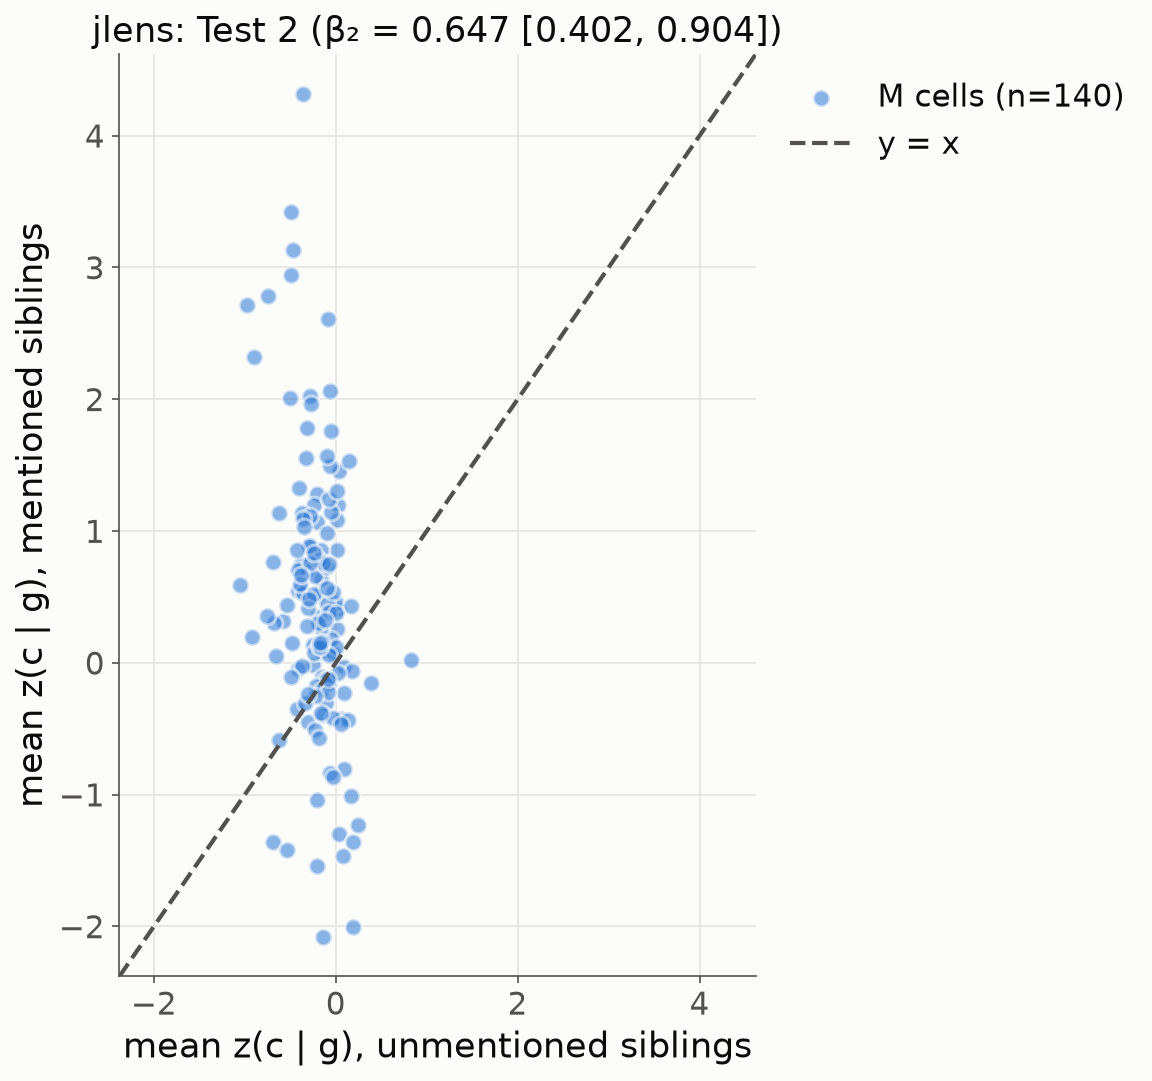
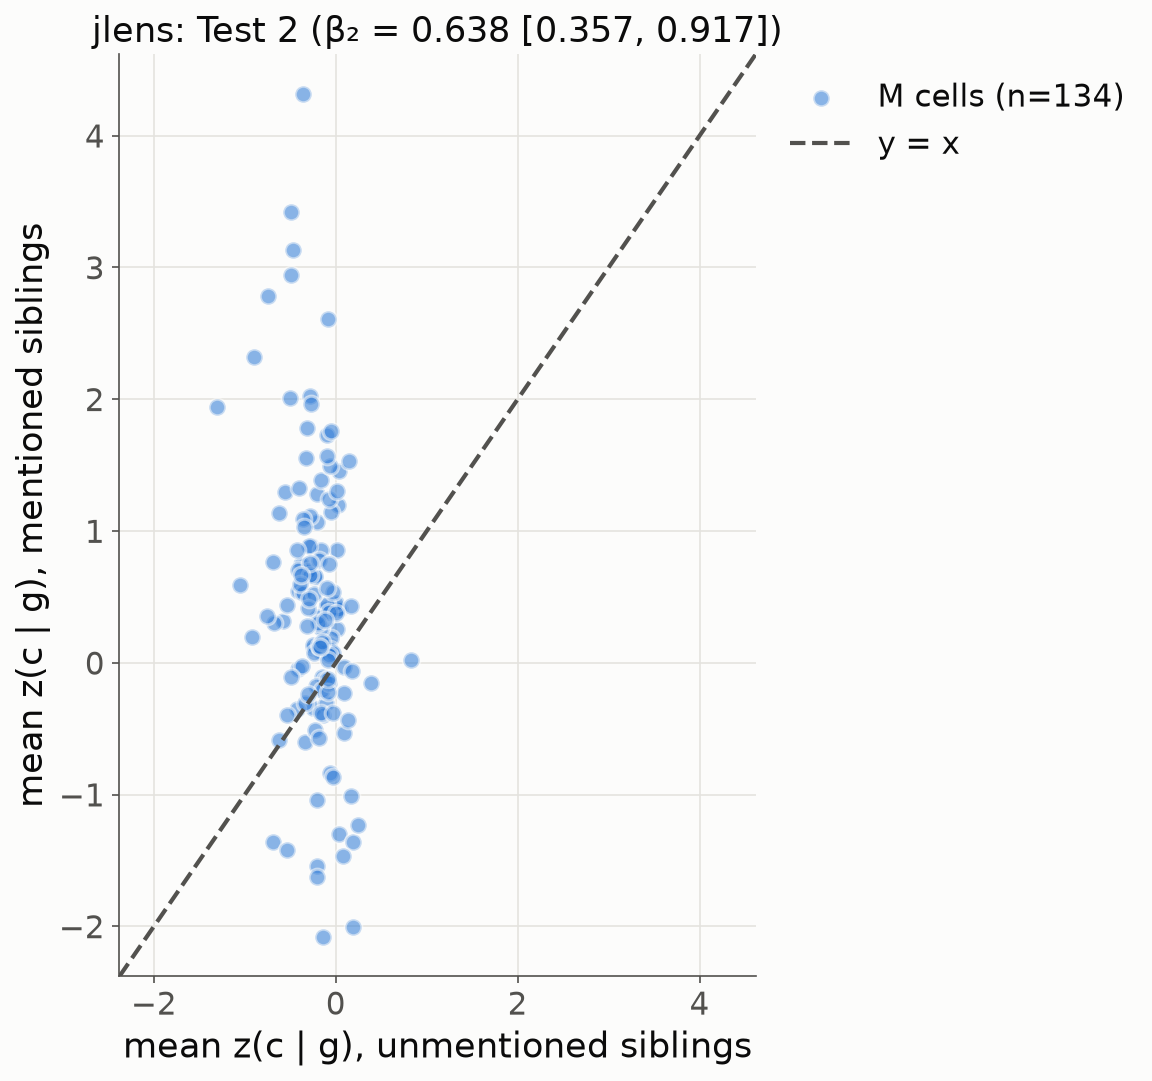
Results 0003 rewritten on the final run: whitened-DiffMean probes (rev 11) + judge claimmap-v2.7; cross-lens overlap vs probe support

diff --git a/docs/results/0003_sibling_probes.md b/docs/results/0003_sibling_probes.md
@@ -1,198 +1,202 @@
-# Results 0003: are same-category sibling mentions hallucinations? (DiffMean probe check)
+# Results 0003: are same-category sibling mentions hallucinations? (concept-probe check)
 
-Plan `plans/0003-sibling-concept-probes.md` (rev 10). Issue #5, PR #6. Run 2026-10-11 (probe run
-`sibling-v2`, after review fixes). Judge: claim map `claimmap-v2.5` (plan 0002 rev 15),
-`claude-opus-5-5`, effort low. The full machine report is `outputs/sibling/score/report.md`;
-regenerate it with `hbench sibling report`.
+Plan `plans/0003-sibling-concept-probes.md` (rev 11). Issue #5, PR #6. Final run 2026-10-12:
+- probes: run `sibling-v3`, both recipes;
+- judge: `claimmap-v2.7` (plan 0002 rev 17), `claude-opus-5-5`, effort low.
+
+The full machine report is `outputs/sibling/score/report.md` (`hbench sibling report`); the
+cross-lens overlap is `outputs/sibling/overlap/overlap.md` (`scripts/sibling_probe/arm_overlap.py`).
 
 ## Question
 
-Sometimes a lens names several instances of one category where the context implies only one:
-the user is Korean and the readout says "Korea … China", or the user is embarrassed and the
-readout says "angry". Are the extra **siblings** hallucinations, or does the model actually
-represent them? We give each concept one DiffMean probe and test whether the sibling's probe
-fires at the activations where the lens names it.
+When a lens names several instances of one category where the context implies only one (the
+user is Korean and the readout says "Korea … China"; the user is embarrassed and the readout
+says "angry"), are the extra **siblings** hallucinations, or does the model actually represent
+them? We build one probe per concept and test whether a sibling's probe fires where a lens
+names it.
 
 ## Answer in one paragraph
 
-**Mostly hallucinations, with a small real signal.** The pre-registered verdict is *supported*
-for the s3d O-lens and for NLA in every subset, and the J-lens positive control passes. Where
-the lens names a sibling, that sibling's probe scores higher than at the same item's other
-cells (β₁ = 0.27 sd for s3d), and higher than the unmentioned siblings at the same activation
-(β₂ = 0.35 sd). The effect is small, though:
-
-- a mentioned sibling's probe fires 14% of the time;
-- a matched unmentioned sibling's fires 9% of the time;
-- the gold concept's fires 72% of the time at cells that name it.
-
-So **86% of s3d sibling mentions are not backed by a probe-detectable representation**, and
-count as hallucinations by Camila's definition. The rate is 82% for NLA and 72% for J-lens (the
-positive control, which reads the same residual linearly). Close siblings (resentful → angry,
-Osaka → Kyoto, New York → Boston) fire the lenient threshold 52–82% of the time, but only about
-20% of the time under the strict, gold-context threshold. Comparing each pair with its own
-matched unmentioned cells (same item, layer and concept) splits them into two kinds:
-
-- **Mention-specific rise:** Osaka → Kyoto (z 0.76 where named vs −0.12 where not) and
-  jealous → angry (0.95 vs 0.12).
-- **Overlap with the gold everywhere** (less common): New York → Boston (0.95 vs 0.81) and
-  hopeful → relieved (1.25 vs 0.97).
-
-Every pair comes from only 2–5 items.
+**Mostly hallucinations, with a small real signal.** With probes that now detect the gold
+concept 96% of the time where a lens names it, **81% of the s3d O-lens's sibling mentions are
+not backed by a probe-detectable representation** (NLA 76%, J-lens 82%). The miss rate on
+certain-true mentions is only 4%, so this is not probe weakness. Still, a sibling's probe scores
+higher where the lens names it: the pre-registered verdict is *supported* for the O-lens and for
+NLA under both probe recipes. Siblings named by several lenses are more often real: probe
+detection is 5% when no lens names the sibling, 9% for one lens, 17% for two and 22% for all
+three, and s3d + NLA without J-lens alone gives 17%. One caveat flips with the recipe: the J-lens
+positive control passes with raw DiffMean probes but fails with the better whitened probes.
 
 ![probe-verified hallucination rate](../../plots/sibling_probe/halluc_rate.png)
 
-## Headline numbers
+## Making the probes good (plan rev 11)
 
-The **probe-verified hallucination rate** is the share of sibling mentions (judged not correct)
-whose probe does not fire. Two thresholds are used:
+The first probes (raw DiffMean on per-text means) were weak: held-out AUROC ≥ 0.85 for only 34%
+of (concept, layer) probes, and they caught the gold only 72% of the time. A recipe sweep scored
+only probe texts and gold-item eval cells, never lens mentions or the judge. It picked the
+**whitened DiffMean (shrinkage LDA)**: the difference of class means, whitened by the shrunk
+within-concept covariance, with λ chosen by inner CV on the training folds. It even matched a
+supervised logistic-regression ceiling.
 
-- **τ_cat** (headline): the 95th percentile of the sibling's probe over the category's other
-  concepts.
-- **τ(c | g)** (strict): the 95th percentile over ordinary contexts of the item's gold concept.
+| probe recipe | held-out AUROC median | probes ≥ 0.85 | eval-site transfer | gold detected where named | wsbench human-written items (transfer) |
+|---|---|---|---|---|---|
+| raw DiffMean (V0, first run) | 0.80 | 34% | 0.85 | 72% | 0.69 [0.66, 0.76] |
+| **whitened DiffMean (V2)** | **0.94** | **79%** (401/510 pass both gates) | **0.96** | **96%** | **0.89 [0.86, 0.94]** |
+| logistic regression (reference) | 0.92 | 72% | 0.95 | n/a | n/a |
 
-Only probes passing both the validity gate and the eval-site transfer gate count. CIs are 95%,
-from an item-clustered bootstrap.
+- **By category:** country, capital city, emotion, holiday and occupation pass the 0.85 gate
+  almost everywhere. Farm animal (7/55 probes) and tree (20/80) still fail and are reported as
+  "probes too weak to adjudicate".
+- **Calibration:** false positives at the 95th-percentile threshold run at 7.6% on other-gold
+  eval cells and 8.2% on neutral texts (target 5%). The threshold is deliberately not
+  recalibrated on eval cells.
+- **Disclosure:** the sweep was run after the first results were visible, and the better
+  recipe detects more by construction. So both recipes are reported in every headline cell, and
+  "recipe-sensitive" is flagged where they disagree. The flag fires only for the J-lens control
+  (below).
 
-| arm | M pairs | halluc rate, τ_cat | strict, τ(c\|g) | all sibling mentions (judge ignored) | det(M) | det(unmentioned, matched) | gold ceiling |
-|---|---|---|---|---|---|---|---|
-| **s3d O-lens** | 2,767 | **86.0%** [83.1, 88.7] | 86.3% [84.5, 88.1] | 84.4% | 14.0% | 8.6% | 71.7% |
-| **NLA-RL L42** | 626 | **82.1%** [78.6, 85.6] | 82.5% [79.3, 85.6] | 78.2% | 17.9% | 12.7% | 71.2% |
-| **J-lens** (control) | 176 | **72.0%** [64.8, 78.9] | 78.8% [73.3, 83.6] | 68.2% | 28.0% | 15.8% | 92.4% |
+## Headline (whitened probes, judge v2.7)
 
-**"Not detected" does not mean "certainly absent".** The probes miss the gold itself 28% of the
-time at gold-mention cells (ceiling 72%), so some of the 86% is probe miss. A
-sensitivity-corrected view is (det(M) − floor) / (ceiling − floor):
+The probe-verified hallucination rate is the share of sibling mentions (judged not correct)
+whose probe does not fire at τ_cat. The strict threshold τ(c | g) is the sibling probe's 95th
+percentile on ordinary contexts of the item's gold. Only gate-passing probes count. CIs are 95%,
+item-clustered.
 
-- s3d: **0.085** [0.056, 0.117]
-- NLA: 0.089 [0.041, 0.137]
-- J-lens: 0.16 [0.08, 0.24]
+| lens | M pairs | **halluc rate** | strict τ(c\|g) | gold-miss floor | det(M) | det(unmentioned, matched) | normalised 1 − det(M)/ceiling | raw-DiffMean rate |
+|---|---|---|---|---|---|---|---|---|
+| **s3d O-lens** | 2,641 | **80.5%** [76.7, 84.1] | 84.3% | 4.4% | 19.5% | 12.7% | 79.6% | 86.1% |
+| **NLA-RL L42** | 662 | **75.7%** [71.6, 80.0] | 80.1% | 5.3% | 24.3% | 15.6% | 74.4% | 81.1% |
+| **J-lens** | 158 | **82.3%** [73.1, 89.4] | 88.0% | 0.7% | 17.7% | 19.0% | 82.2% | 75.9% |
 
-In words, under 10% of O-lens and NLA sibling mentions carry gold-strength evidence beyond the
-baseline. The pre-registered "strongly supported" bar (> 0.5) is not met.
+### Pre-registered verdict
 
-### Verdict tests (pre-registered)
+- **β₁:** at the same item, layer and concept, the probe's z where the lens names the sibling
+  vs where it does not (offset fixed effects).
+- **β₂:** at the same activation, named siblings vs unnamed siblings.
 
-- **β₁, matched test:** the same item, layer and concept, comparing cells that name the concept
-  with cells that do not. It uses offset fixed effects and is measured in z units of the probe.
-- **β₂, within-cell test:** at the same activation, named siblings vs unnamed siblings.
+| lens | probe | β₁ (z) | β₂ (z) | verdict |
+|---|---|---|---|---|
+| s3d O-lens | whitened | 0.14 [0.10, 0.19] | 0.47 [0.36, 0.58] | **supported** |
+| s3d O-lens | raw | 0.26 [0.20, 0.32] | 0.34 [0.24, 0.45] | supported |
+| NLA-RL L42 | whitened | 0.23 [0.14, 0.34] | 0.70 [0.55, 0.86] | **supported** |
+| NLA-RL L42 | raw | 0.34 [0.25, 0.43] | 0.62 [0.50, 0.75] | supported |
+| J-lens (positive control) | whitened | 0.14 [−0.03, 0.33] | 0.64 [0.36, 0.92] | **control fails** (β₁ CI includes 0) |
+| J-lens (positive control) | raw | 0.59 [0.42, 0.79] | 1.24 [1.05, 1.44] | control passes |
 
-| arm | β₁ (z) | β₂ (z) | verdict |
-|---|---|---|---|
-| s3d O-lens | 0.27 [0.21, 0.32] | 0.35 [0.25, 0.46] | supported |
-| s3d, probes with validity ≥ 0.85 (robustness) | 0.36 [0.27, 0.45] | 0.40 [0.22, 0.57] | supported |
-| NLA-RL L42 | 0.32 [0.23, 0.41] | 0.58 [0.46, 0.70] | supported |
-| J-lens (positive control) | 0.61 [0.44, 0.80] | 1.21 [1.04, 1.38] | control passes |
+The pre-registered rule makes the control decisive only for a *not supported* verdict, so
+*supported* stands. The control failure is still a substantive caveat. A plausible reading:
+raw DiffMean shares some output-token direction with the J-lens readout, and whitening strips
+it (median cosine of the probe with its concept's unembedding falls from 0.094 to 0.061). That
+would leave J-lens's own extra signal near zero (its excess over matched cells, −0.015, CI
+spans 0).
 
-The within-item AUROC (mention cells vs non-mention cells of the same item, layer and concept)
-is 0.57 for s3d, 0.60 for NLA and 0.66 for J-lens.
+How much of a mention is "real": the excess ratio (det(M) − floor) / (ceiling − floor) is
+0.08 [0.05, 0.11] for s3d and 0.11 [0.07, 0.15] for NLA. The pre-registered "strongly
+supported" bar is > 0.5.
 
-## By category (s3d O-lens)
+### By category (s3d O-lens, whitened)
 
 ![detection by mention status](../../plots/sibling_probe/detection_s3d-rl600.png)
 
-| category | halluc τ_cat | halluc τ(c\|g) | probe pass share | status |
+| category | halluc rate | strict τ(c\|g) | gold ceiling | status |
 |---|---|---|---|---|
-| emotion | **73%** | 80% | 100% | adjudicable; lowest rate |
-| capital_city | 83% | 87% | 94% | adjudicable |
-| holiday | 91% | 89% | 98% | adjudicable |
-| country | 92% | 90% | 72% | adjudicable |
-| occupation | 94% | 90% | 86% | adjudicable |
-| farm_animal | (92%) | (83%) | 23% | **probes too weak to adjudicate** |
-| tree | (85%) | (81%) | 39% | **probes too weak to adjudicate** |
+| capital_city | **74%** [64, 83] | 84% | 95% | adjudicable |
+| country | 76% [67, 85] | 74% | 90% | adjudicable |
+| emotion | 78% [70, 86] | 86% | 98% | adjudicable |
+| occupation | 88% [83, 92] | 88% | 97% | adjudicable |
+| holiday | 92% [88, 94] | 90% | 98% | adjudicable |
+| farm_animal | (90%) | (93%) | 95% | probes too weak |
+| tree | (84%) | (83%) | 94% | probes too weak |
 
-Over adjudicable categories only, the macro rate is s3d 86.6%, NLA 84.2% and J-lens 62.0%.
-Farm-animal and tree probes mostly fail the validity gate (out-of-fold AUROC about 0.65), so
-those two rates rest on the few passing probes and are not interpreted.
+## Do the three lenses name the same siblings?
 
-## Most frequent sibling pairs (s3d, gate-passing probes)
+**Partly, and their agreement tracks real representation.**
 
-"Named" = cells where the lens names the sibling (M). "Not named" = the matched unmentioned
-cells of the same item, layer and concept (U_matched).
-
-| gold → sibling | named n | items | named: det τ_cat / τ(c\|g) / z | not named: det τ_cat / τ(c\|g) / z |
+| at the same (item, position), NLA L42 vs s3d / J-lens L44 | P(B \| A) | lift | within-category null lift | same-gold null lift |
 |---|---|---|---|---|
-| resentful → angry | 43 | 2 | 0.82 / 0.17 / 0.83 | 0.60 / 0.11 / 0.34 |
-| fisherman → musician | 43 | 5 | 0.04 / 0.28 / 1.08 | 0.03 / 0.11 / −0.09 |
-| Osaka → Tokyo | 32 | 2 | 0.08 / 0.02 / −0.21 | 0.10 / 0.03 / −0.28 |
-| Ireland → UK | 28 | 2 | 0.15 / 0.08 / 0.40 | 0.11 / 0.11 / −0.41 |
-| Osaka → Kyoto | 26 | 2 | 0.52 / 0.21 / 0.76 | 0.17 / 0.02 / −0.12 |
-| jealous → angry | 26 | 2 | 0.14 / 0.24 / 0.95 | 0.04 / 0.09 / 0.12 |
-| locksmith → musician | 26 | 5 | 0.04 / 0.21 / 0.75 | 0.01 / 0.03 / −0.31 |
-| artist → musician | 25 | 2 | 0.03 / 0.06 / 0.18 | 0.00 / 0.05 / 0.01 |
-| fisherman → writer | 25 | 5 | 0.00 / 0.01 / −0.30 | 0.01 / 0.03 / −0.40 |
-| New York → Boston | 23 | 2 | 0.59 / 0.20 / 0.95 | 0.47 / 0.24 / 0.81 |
-| Tokyo → Kyoto | 19 | 2 | 0.22 / 0.11 / 0.09 | 0.11 / 0.01 / −0.30 |
-| hopeful → relieved | 19 | 2 | 0.54 / 0.36 / 1.25 | 0.46 / 0.30 / 0.97 |
-| donkey → horse ¹ | 19 | 2 | 0.04 / 0.05 / 0.82 | 0.03 / 0.03 / −0.01 |
+| s3d → NLA | 0.18 | 10.8 | 2.5 | 8.5 |
+| s3d → J-lens | 0.04 | 9.9 | 1.5 | 6.6 |
+| NLA → J-lens | 0.04 | 11.8 | 2.1 | 9.3 |
 
-These are the top 10 pairs plus all three tied at n = 19. ¹ farm_animal is "probes too weak to
-adjudicate"; the horse probe itself passes both gates.
+- **Same-activation agreement:** lenses co-name the same sibling about 10× more often than
+  chance, and above both nulls. Much of that comes from the gold's usual associates; the
+  same-gold null alone gives about 8×, and it is near-degenerate (2 items per gold).
+- **Item level, pooled over layers:** 1,207 (item, sibling) pairs are named by at least one
+  lens and 90 by all three; s3d names the most.
 
-Reading the table:
+**Agreement vs probe support** (whitened probe at L44, per (item, sibling); concept fixed
+effects in the report):
 
-- Most pairs show a higher z where named than where not, which is the β₁ effect. The rise
-  rarely carries the probe past detection.
-- Two close siblings score high whether named or not (New York → Boston, hopeful → relieved):
-  the sibling overlaps with the gold everywhere. This is the less common pattern among the top
-  pairs.
-- Others rise mainly where named (Osaka → Kyoto, jealous → angry, fisherman / locksmith →
-  musician, Tokyo → Kyoto, donkey → horse).
-- Distant swaps such as fisherman → writer and Osaka → Tokyo show no probe support at all.
+| lenses naming the sibling | units | probe detection | mean z(c\|g) |
+|---|---|---|---|
+| none | 1,928 | 5.0% | −0.10 |
+| one | 569 | 8.9% | 0.11 |
+| two | 238 | 16.8% | 0.23 |
+| all three | 57 | 21.8% | 0.35 |
+| s3d + NLA, not J-lens | 204 | 17.4% | 0.25 |
+
+With concept fixed effects, detection rises +6.7, +15.1 and +22.3 points over "none" for one,
+two and three lenses, all CIs above 0. The s3d + NLA stratum excludes J-lens, so this is not
+just the linear readout agreeing with a linear probe. Even a sibling named by all three lenses
+is detected only about 1 time in 5.
+
+## Most frequent sibling pairs (s3d, whitened, gate-passing)
+
+| gold → sibling | named n | items | named: det / z | not named: det / z |
+|---|---|---|---|---|
+| resentful → angry | 43 | 2 | 0.77 / 0.52 | 0.62 / 0.38 |
+| fisherman → musician | 43 | 5 | 0.05 / 0.16 | 0.07 / −0.09 |
+| Osaka → Tokyo | 32 | 2 | 0.71 / 0.69 | 0.48 / 0.35 |
+| Ireland → UK | 28 | 2 | 0.59 / 1.16 | 0.25 / −0.16 |
+| jealous → angry | 27 | 2 | 0.00 / 0.30 | 0.01 / 0.12 |
+| Osaka → Kyoto | 26 | 2 | 0.71 / 0.71 | 0.38 / −0.13 |
+| locksmith → musician | 26 | 5 | 0.00 / 0.28 | 0.03 / −0.25 |
+| artist → musician | 25 | 2 | 0.45 / 0.92 | 0.28 / 0.50 |
+| fisherman → writer | 25 | 5 | 0.01 / 0.51 | 0.01 / 0.31 |
+| New York → Boston | 23 | 2 | 0.35 / 0.45 | 0.42 / 0.59 |
+| hopeful → relieved | 23 | 2 | 0.61 / 1.19 | 0.54 / 1.09 |
+
+(det = detection at τ_cat; z = z(c | g); every pair comes from 2–5 items.)
+
+- **Overlap with the gold everywhere:** some close siblings are detected whether named or not
+  (resentful → angry, hopeful → relieved, New York → Boston).
+- **Rise where named:** Ireland → UK and Osaka → Kyoto (detection about 0.3 higher where named).
+- **No support either way:** occupation swaps (fisherman → musician / writer) and
+  jealous → angry are almost never detected.
 
 ## Caveats
 
-- **Probe validity.** Out-of-fold, position-level AUROC passed the original 0.85 gate for only
-  a third of (concept, layer) probes. Plan rev 10 lowered the gate to 0.70 before any judge
-  result existed; 382 of 510 now pass both gates. This drops 22% of s3d M mentions. The
-  0.85-only robustness row gives the same verdict.
-- **Inventory coverage.** Rates cover the 10–16 inventory concepts per category. Estimated
-  sibling mentions outside the inventory are low (0–8%) for s3d capital_city, country, emotion,
-  farm_animal and holiday, and higher for tree (35%) and occupation (55%, small sample).
-- **Scope.** Many NLA sibling mentions sit inside reconstructed or imagined prompts. On the
-  `scope = user` slice the rates are similar: s3d 83%, NLA 81%.
-- **Review fixes before this version.** The occupation alias "author" no longer matches generic
-  uses ("the author of", "author bio"); this removed 25 s3d M pairs. Golds named outright in
-  the prompt (5 pilot items) no longer count toward the ceiling or transfer. Folds are
-  stratified by explicit / implied text.
-- **Failed cells.** After 4 attempts, 72 judged cells (0.7%) still failed the claim map, mostly
-  refusals, and 13 J-lens summaries failed. All are excluded.
-- **Setup.** The items are user-modelling prompts with an implied attribute, read from the
-  request sentence through the template tail at L28/36/44/52 (NLA at L42). Responses are
-  Qwen3.6-27B greedy.
+- **Judge version.** The judge changed twice during this work (v2.5 → v2.7). v2.7 relabels
+  incorrect claims that cannot be backed by a verbatim contradiction quote as `unverifiable`.
+  Those stay in M (every not-correct claim verdict counts). The v2.5 and v2.7 headline rates
+  agree within 0.5 points.
+- **Gates.** The validity gate is back at the pre-registered 0.85 for the whitened probe; 25% of
+  s3d M mentions fall on failing probes, almost all farm_animal / tree. The raw-DiffMean columns
+  use the rev-10 gate (0.70) so they reproduce the first run.
+- **Coverage.** Rates cover the 10–16 inventory concepts per category.
+- **Scope.** Many NLA sibling mentions sit inside imagined prompts. On the `scope = user` slice,
+  s3d is 76%.
+- **Failed cells.** After 4 attempts, 77 judged cells failed the claim map and 6 J-lens
+  summaries failed (0.8% in total). All are excluded.
+- **Setup.** User-modelling prompts with an implied attribute (204 items, 7 categories), read
+  from the request sentence through the template tail at L28/36/44/52 (NLA L42); Qwen3.6-27B.
 
-## Pilot (manual check of how common sibling mentions are)
+## Pilot and further settings
 
-We wrote 40 prompts by hand (8 per new category) and read them with s3d at 4 layers. Every
-category had sibling mentions in 8/8 items (21–37% of cells under a rough matcher), and a hand
-read confirmed the phenomenon:
-
-- Berlin landmarks → "central London";
-- Tokyo → "Tokyo & Washington D.C.";
-- a maple-syrup tree → "likely a birch or oak";
-- goats on the roof → "cows on the roof";
-- Easter → a Thanksgiving / Halloween invitation;
-- Diwali → a Rosh Hashanah invitation.
-
-Country and occupation showed the same pattern in the wsbench readouts (Ukraine → Russia,
-New Zealand → Australia, fisherman → farmer / sailor).
-
-## Further settings worth trying
-
-- **Other categories:** languages (a French speaker read as Spanish or Italian), cuisines,
-  sports and teams, musical instruments, dog breeds, car brands, religions and denominations,
-  universities, programming languages, and historical figures of the same era or role (the
-  Picasso / da Vinci substitution).
-- **Better probes before adjudicating farm animals and trees:** more and longer probe texts, or
-  token-position-specific probes, since their DiffMean probes are near chance across the read
-  window.
-- **A direct test of "the model represents both":** steer or ablate along the sibling direction
-  at mention cells and check whether the lens mention moves.
+- **Pilot:** 40 hand-written prompts showed sibling mentions in 8/8 items of every category
+  (e.g. Berlin → "central London"; maple syrup → "likely a birch or oak"; goats → "cows on the
+  roof").
+- **Next categories:** languages, cuisines, sports teams, instruments, dog breeds, car brands,
+  religions, historical figures (Picasso / da Vinci).
+- **Next experiment:** steer or ablate along a sibling's direction at mention cells and see
+  whether the lens mention moves. That is the causal test the probes cannot give.
 
 ## Cost
 
 | item | cost |
 |---|---|
-| Judge (claim map, scope and coverage calls, J-lens summaries; 3 arms) | $356 |
-| Item and probe-text generation | $10 |
-| Modal (captures; s3d, J-lens and NLA readouts; 2 probe jobs; Qwen generation) | about $30–40 |
-| **Total** | **about $400** |
+| Judge v2.5 run | $356 |
+| Judge v2.7 re-run | $375 |
+| Generation | $10 |
+| Modal (captures; readouts; 3 probe jobs; recipe sweep; Qwen generation) | about $50 |
+| **Total** | **about $790** |

diff --git a/README.md b/README.md
@@ -145,4 +145,4 @@ and `outputs/wsbench_chat/<judge model>/{report.md,report.json,audit_samples.md}
 [`docs/results/0001_wsbench_chat_taxonomy.md`](docs/results/0001_wsbench_chat_taxonomy.md)
 (filled in after the full run); claim map:
 [`docs/results/0002_claim_map.md`](docs/results/0002_claim_map.md); sibling probes:
-[`docs/results/0003_sibling_probes.md`](docs/results/0003_sibling_probes.md) (s3d sibling mentions 86% probe-unverified; real but small sibling signal, β₁ 0.27 z).
+[`docs/results/0003_sibling_probes.md`](docs/results/0003_sibling_probes.md) (whitened probes catch the gold 96%; s3d sibling mentions 81% probe-unverified, NLA 76%; small real signal; multi-lens agreement predicts probe support).
